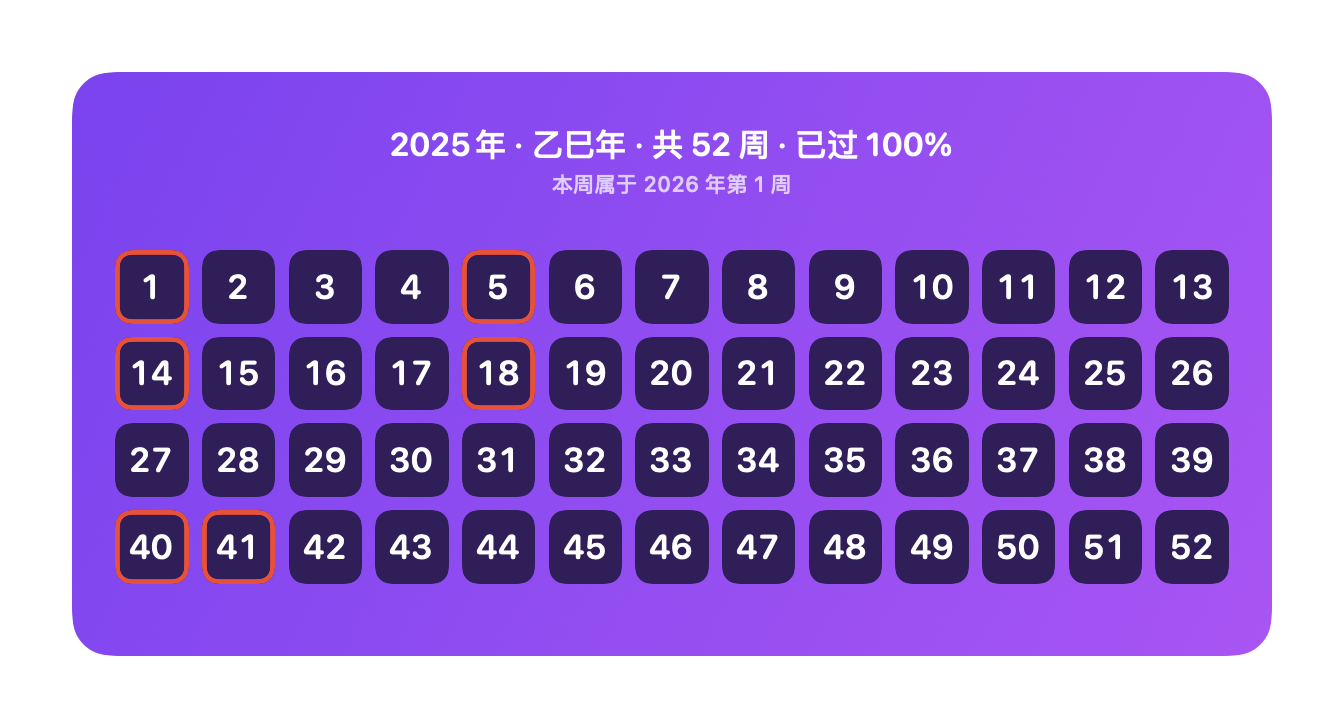
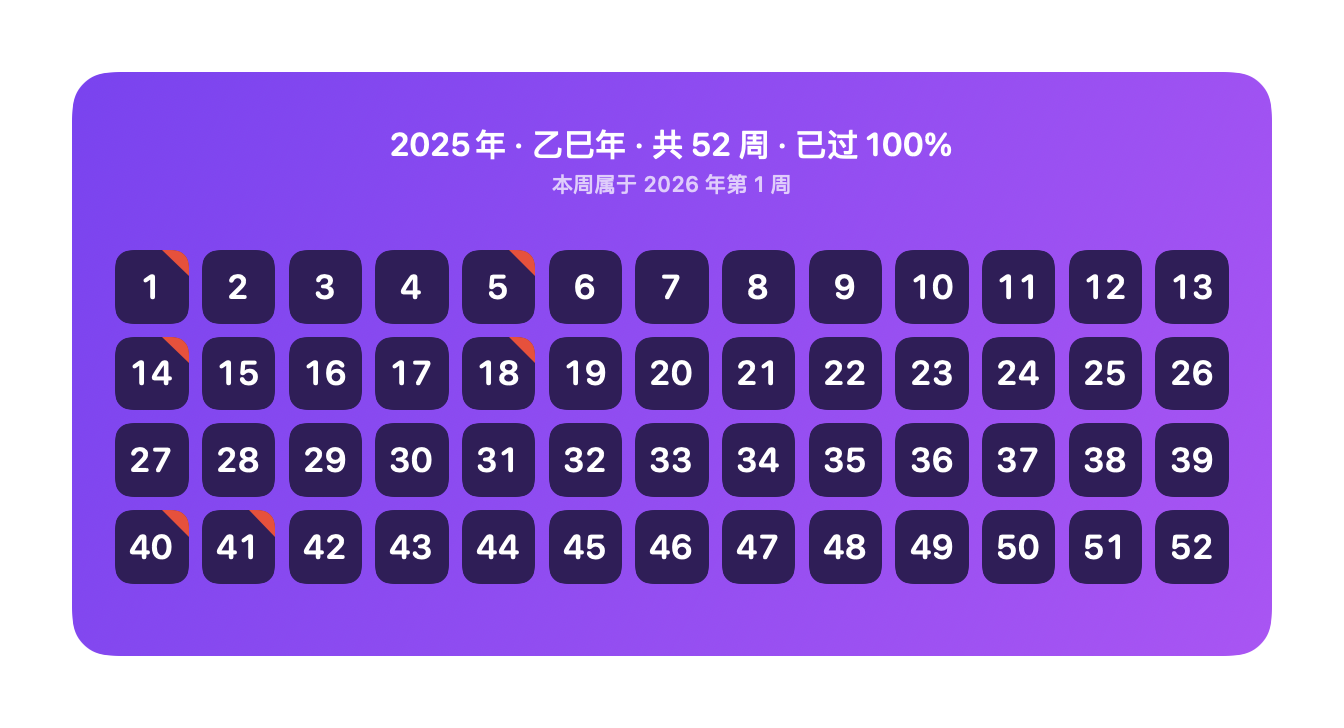
style(ui): 节假日用折角标记，本周用双色描边；预览同步更新
- 节假日默认标记改为 triangle（右上角红色折角）
- 本周描边按进度分界做双色（深段浅边、浅段深边），浅色块上也清楚
- 删除不再使用的 currentStroke；README 与预览图同步

diff --git a/Sources/YearProgressUI/YearProgressCardView.swift b/Sources/YearProgressUI/YearProgressCardView.swift
@@ -38,7 +38,7 @@ public struct YearProgressCardView: View {
                 fixedColumns: Int? = nil,
                 headerFontOverride: CGFloat? = nil,
                 drawsBackground: Bool = true,
-                holidayMarker: HolidayMarkerStyle = .ring) {
+                holidayMarker: HolidayMarkerStyle = .triangle) {
         self.progress = progress
         self.theme = theme
         self.size = size
@@ -185,7 +185,20 @@ private struct WeekBlockView: View {
         .frame(width: side, height: side)
         .clipShape(RoundedRectangle(cornerRadius: radius, style: .continuous))
         .overlay {
-            if let stroke {
+            if cell.state == .current {
+                // 本周描边跨在深浅分界上：上段用浅色边、下段用深色边，
+                // 和方块里的数字同一种双色处理，保证两种底色上都看得见。
+                let f = CGFloat(min(1, max(0, cell.fraction)))
+                let w = max(2, side * 0.10)
+                ZStack {
+                    RoundedRectangle(cornerRadius: radius, style: .continuous)
+                        .strokeBorder(theme.pastLabel, lineWidth: w)
+                        .mask(alignment: .top) { Rectangle().frame(height: f * side) }
+                    RoundedRectangle(cornerRadius: radius, style: .continuous)
+                        .strokeBorder(theme.futureLabel, lineWidth: w)
+                        .mask(alignment: .bottom) { Rectangle().frame(height: (1 - f) * side) }
+                }
+            } else if let stroke {
                 RoundedRectangle(cornerRadius: radius, style: .continuous)
                     .strokeBorder(stroke.color, lineWidth: stroke.width)
             }
@@ -234,7 +247,7 @@ private struct WeekBlockView: View {
         switch cell.state {
         case .past: return theme.pastStroke.map { ($0, width) }
         case .future: return theme.futureStroke.map { ($0, width) }
-        case .current: return nil
+        case .current: return nil   // 本周走单独的双色描边
         }
     }
 

diff --git a/Sources/YearProgressMac/CLIOptions.swift b/Sources/YearProgressMac/CLIOptions.swift
@@ -28,7 +28,7 @@ struct CLIOptions {
     /// 导出菜单栏弹窗（带小三角）的预览
     var popoverPreview = false
     /// 节假日标记样式
-    var holidayMarker: HolidayMarkerStyle = .ring
+    var holidayMarker: HolidayMarkerStyle = .triangle
     /// 开发用：模拟"挂菜单→摘菜单→重新绑定→左键点击"的完整序列
     var testMenuClick = false
 

diff --git a/README.md b/README.md
@@ -1,7 +1,7 @@
 # 年进度小组件 · YearProgress
 
 把「一年里的每一周」画成一格小方块，**每个方块中央显示第几周（阿拉伯数字）**，
-**含工作日法定节假日的周用红色描边标记**（周六日不算）：
+**含工作日法定节假日的周用红色折角标记**（周六日不算），**本周用双色描边标识**：
 **已过的周是深色块（白字），未来的周是浅色块（深字），本周的深色已过部分从顶部向下增长**（数字跨分界线时自动双色）。
 顶部一行居中显示「2026年 · 丙午年 · 第 43 周 · 剩 10 周 · 已过 81%」，下面是方块网格。
 
@@ -85,7 +85,7 @@ make icon       # 重新生成 App 图标（Tools/make-icon.swift → .icns）
 - 数据：`Support/holidays/{year}.json`（与 holiday-cn 格式兼容，原始来源为国务院办公厅通知）
 - 规则：只看**周一~周五**的放假日；周六日不算；调休补班日（`isOffDay=false`）忽略
 - 2026：10 个周有工作日假期 —— `1 元旦 / 8、9 春节 / 15 清明 / 18、19 劳动 / 25 端午 / 39 中秋 / 40、41 国庆`
-- 样式：**ring（红色描边）**，面板与小组件共用
+- 样式：**折角（红色三角，位于右上角）**；本周方块用双色描边（深段浅边/浅段深边），面板与小组件共用
 - 兜底：没有官方数据时用 `Calendar(identifier: .chinese)` 计算春节（正月初一~初三）、端午、中秋，加固定节日与清明近似；只能保证"周"大致正确，**不含调休/延长假期**
 
 ### 2027 及以后的数据处理
